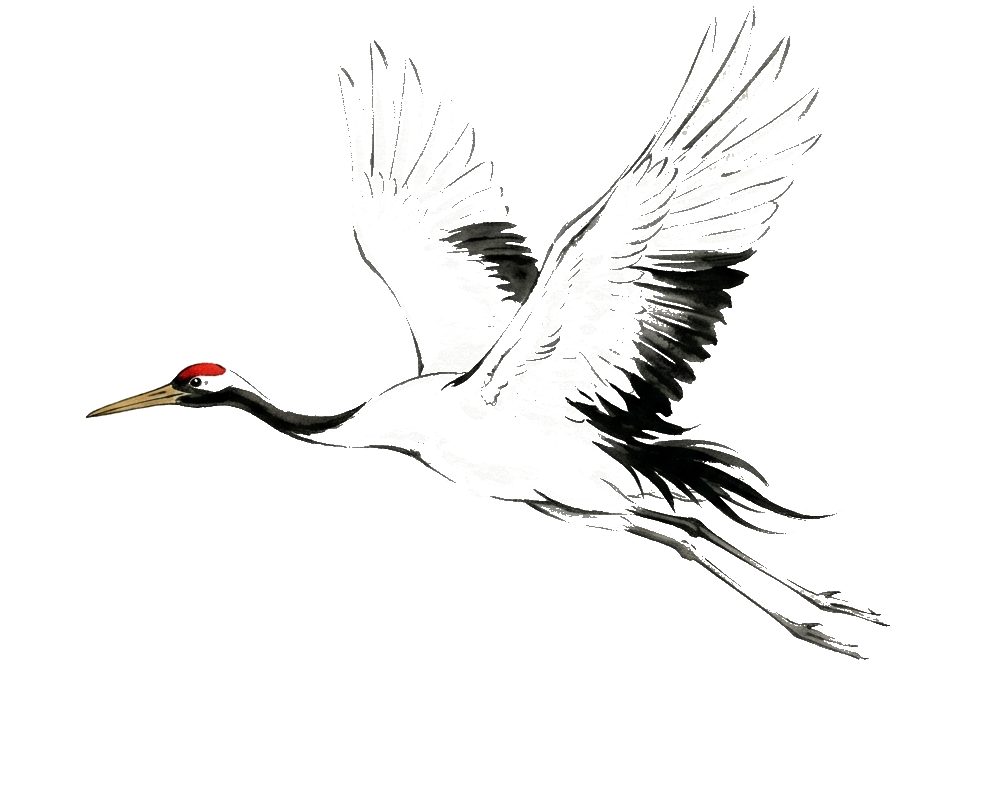
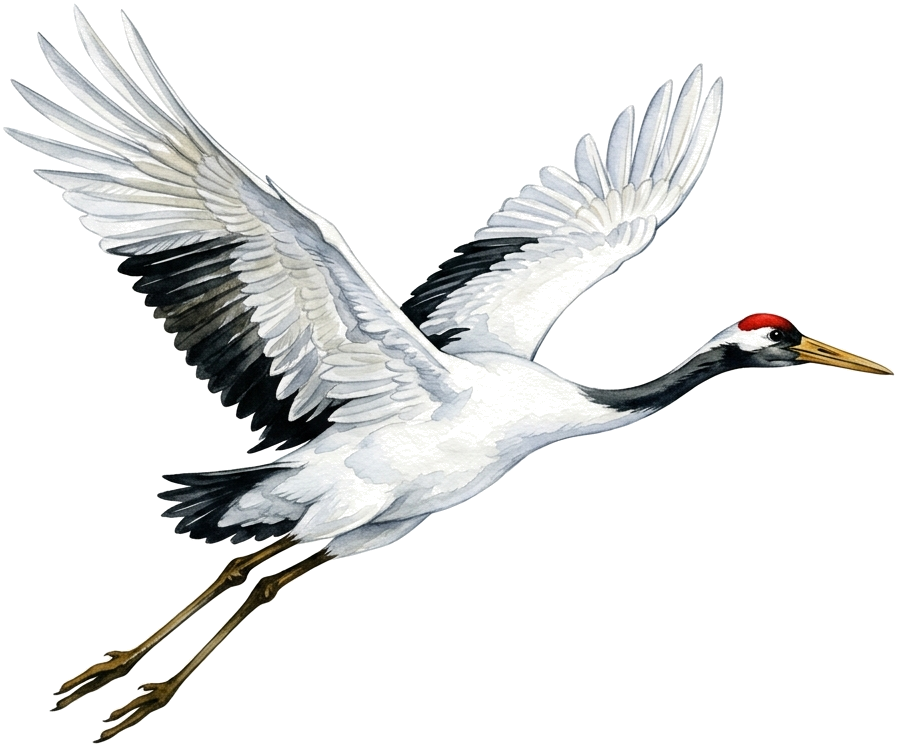
Новый журавль лицом вправо, мягкая обработка без потери деталей

diff --git a/src/app/page.tsx b/src/app/page.tsx
@@ -137,8 +137,8 @@ export default function Home() {
                 <Image
                   src="/images/crane.png"
                   alt="Flying crane bird"
-                  width={990}
-                  height={785}
+                  width={898}
+                  height={747}
                   className="h-auto w-full object-contain"
                 />
               </motion.div>
